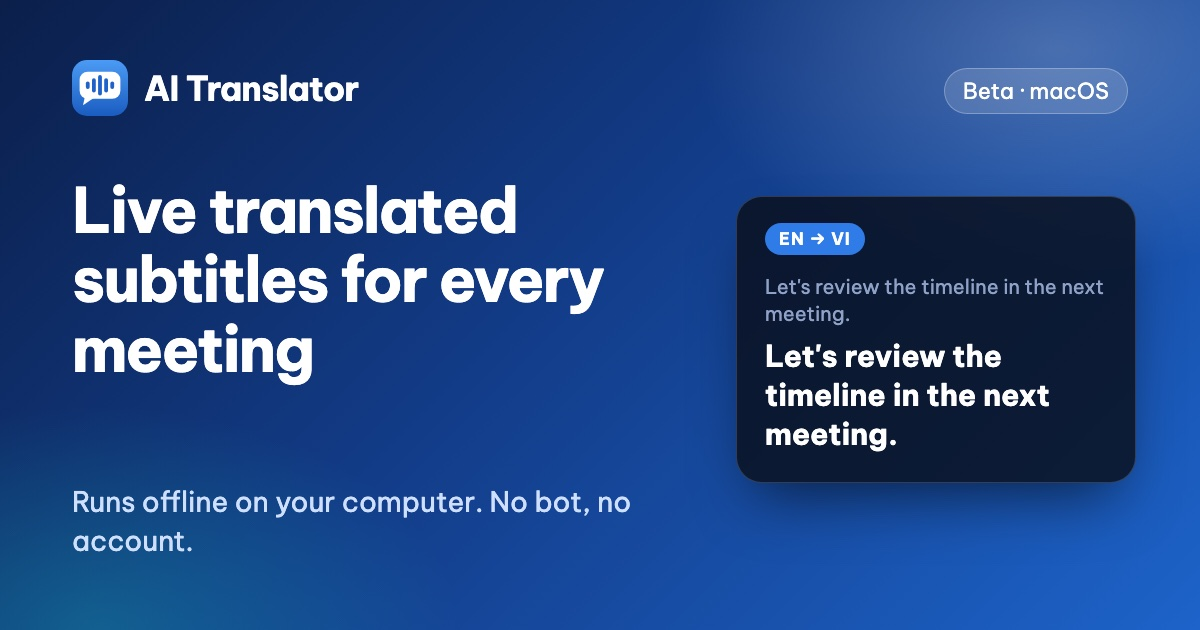
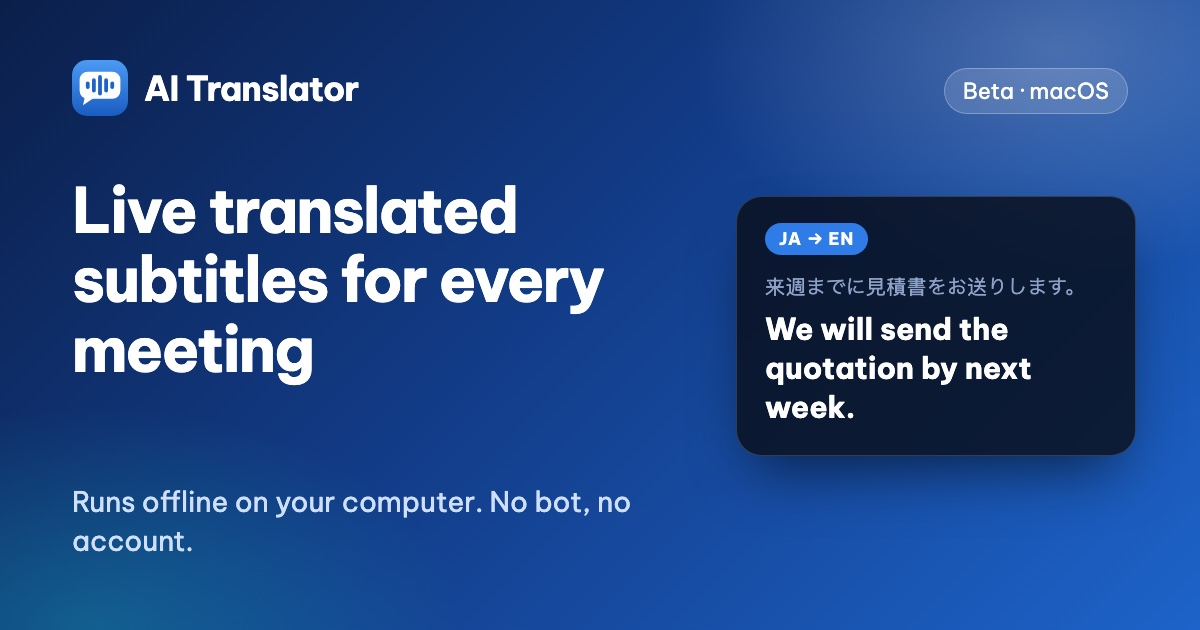
feat(website): trang pháp lý từ docs/legal, ảnh chia sẻ theo nhóm trang, README, bỏ tràn ngang bài dài

Changed region(s): [[0.6167, 0.4222, 0.9558, 0.8143], [0.6475, 0.3619, 0.74, 0.3921]]

diff --git a/website/src/assets/site.css b/website/src/assets/site.css
@@ -347,7 +347,8 @@ td .yes { color: var(--ok); font-weight: 700; } td .no { color: var(--ink-3); }
 .prose blockquote { margin: 1.4em 0; padding: .2em 1.2em; border-left: 3px solid var(--brand); color: var(--ink-2); background: var(--surface-2); border-radius: 0 var(--r-sm) var(--r-sm) 0; }
 .prose .table-wrap { margin: 1.4em 0; }
 .legal h2 { font-size: 1.4rem; }
-.doc-layout { display: grid; gap: 40px; align-items: start; }
+.doc-layout { display: grid; gap: 40px; align-items: start; grid-template-columns: minmax(0, 1fr); }
+.doc-layout > * { min-width: 0; }
 @media (min-width: 1060px) { .doc-layout { grid-template-columns: 250px minmax(0, 1fr); } .doc-layout.no-toc { grid-template-columns: minmax(0, 1fr); } }
 .toc { position: sticky; top: calc(var(--header-h) + 24px); font-size: .93rem; border-left: 2px solid var(--line); padding-left: 16px; max-height: calc(100vh - var(--header-h) - 48px); overflow: auto; }
 .toc b { display: block; color: var(--ink); margin-bottom: 8px; font-size: .78rem; text-transform: uppercase; letter-spacing: .08em; }

diff --git a/website/tools/og/template.html b/website/tools/og/template.html
@@ -30,7 +30,7 @@ p{position:absolute;left:72px;bottom:70px;width:600px;font-size:28px;line-height
 <script>
 const q = new URLSearchParams(location.search);
 const set = (id, k, d = "") => (document.getElementById(id).textContent = q.get(k) ?? d);
-set("title","t"); set("sub","s"); set("tag","tag"); set("src","src","Let's review the timeline in the next meeting."); set("dst","dst","Hãy xem lại tiến độ trong cuộc họp tiếp theo.");
+set("langs","langs","EN → VI"); set("title","t"); set("sub","s"); set("tag","tag"); set("src","src","Let's review the timeline in the next meeting."); set("dst","dst","Hãy xem lại tiến độ trong cuộc họp tiếp theo.");
 document.documentElement.lang = q.get("lang") ?? "vi";
 </script>
 </body></html>

diff --git a/website/README.md b/website/README.md
@@ -1,0 +1,43 @@
+# Website marketing `aitranslator.io.vn`
+
+Website tĩnh hai ngôn ngữ (tiếng Việt ở `/`, tiếng Anh ở `/en/`) cho AI Translator. Thiết kế: `docs/superpowers/specs/2026-10-08-marketing-website-design.md`. Không framework, không dependency chạy: bộ sinh Node thuần; chỉ `wrangler` (devDependency) để deploy.
+
+## Lệnh (trong `website/`)
+
+| Lệnh | Làm gì |
+|---|---|
+| `pnpm build` | Sinh `dist/` (HTML, CSS/JS băm nội dung, sitemap, robots, llms.txt, `_headers`) |
+| `pnpm dev` | Dựng rồi phục vụ `dist/` ở http://127.0.0.1:4173 (mô phỏng Workers Static Assets, áp `_headers` kể cả CSP) |
+| `pnpm test` | Test SEO/HTML/liên kết/JSON-LD/CSP và **giá khớp `server/wrangler.jsonc`** |
+| `pnpm deploy` | Build, deploy Worker `ai-translator-site` (gốc) và `ai-translator-www` (www → gốc) |
+
+Biến môi trường: `WEBSITE_DIST` (thư mục dựng khác `dist/`, để dựng song song), `ALLOW_PARTIAL=1` (cho phép thiếu trang khi đang viết dở).
+
+## Cấu trúc
+
+```
+src/site.mjs            thông tin site, chuỗi giao diện, điều hướng, chân trang (vi/en)
+src/plans.mjs           ba gói, giá, hạn mức (test đối chiếu server/wrangler.jsonc)
+src/content/index.mjs   danh mục trang (id → vi/<id>.mjs, en/<id>.mjs)
+src/content/{vi,en}/    mỗi trang một module: { id, lang, path, title, description, body, ... }
+src/content/legal.mjs   trang điều khoản/chính sách sinh từ docs/legal/*.md (nguồn duy nhất)
+src/build/              bộ sinh: build, layout (head SEO), schema (JSON-LD), components, icons, markdown, text
+src/assets/             site.css, site.js, font Be Vietnam Pro (OFL), ảnh (img/, og/, app/)
+src/public/             favicon, manifest (chép nguyên vào gốc dist/)
+tools/og/               sinh ảnh chia sẻ 1200×630 từ template.html (cần Google Chrome)
+```
+
+## Thêm một trang
+1. Tạo `src/content/vi/<id>.mjs` và `src/content/en/<id>.mjs` (xem `vi/pricing.mjs` làm mẫu), cùng `id`, đường dẫn kết thúc bằng `/`.
+2. Thêm `<id>` vào `IDS` và `FILE` trong `src/content/index.mjs`; thêm liên kết ở `src/site.mjs` (NAV/FOOTER) nếu cần.
+3. `pnpm test`: title ≤ 70 ký tự, description 90–165 ký tự, đúng một h1, hreflang đối xứng, liên kết nội bộ không hỏng, không `style=` nội tuyến.
+
+## Quy tắc
+- **Chỉ nói điều có thật** về sản phẩm (không số liệu, lời chứng thực hay tính năng tưởng tượng). Số đo hiệu năng luôn kèm điều kiện đo. Trạng thái (beta, Windows chưa phát hành, macOS ký ad-hoc) phải đúng với repo.
+- Đổi giá ở `server/wrangler.jsonc` thì đổi cả `src/plans.mjs` và mọi chỗ nhắc giá trong `src/content/` (test báo lệch giá/hạn mức).
+- Không cookie, không analytics, không script hay font của bên thứ ba (khớp lời hứa quyền riêng tư; CSP `default-src 'self'`).
+- Ảnh chụp giao diện app (`src/assets/img/app/`) chụp bằng giao diện thật chạy trong Chrome với IPC giả; chụp lại khi giao diện app đổi.
+
+## Triển khai
+`pnpm deploy` bằng phiên đăng nhập wrangler của chủ dự án (`wrangler login`; cần quyền workers, routes). Tên miền gốc `aitranslator.io.vn` gắn Worker bằng `custom_domain` (tự tạo DNS và chứng chỉ). MX/SPF/DMARC của Email Routing ở gốc không bị đụng. Sau deploy kiểm: gốc 200, `www` → 301, `curl -A GPTBot` không bị chặn (Cloudflare có thể chặn bot AI mặc định ở cấp zone: tắt trong dashboard nếu cần), `api.` và `releases.` không đổi.
+Đường lui: `wrangler delete` Worker `ai-translator-site` (và `ai-translator-www`): gốc trở lại không có trang, mọi thứ khác không đổi.

diff --git a/CLAUDE.md b/CLAUDE.md
@@ -5,6 +5,7 @@ App desktop (Windows và macOS) hiện phụ đề dịch trực tiếp cho âm 
 - **Tên:** AI Translator (`productName` trong `src-tauri/tauri.conf.json`). Thư mục và repo GitHub đặt là `ai-translator`. Tên crate và binary vẫn là `meeting-translator` (tên mã cũ, chưa đổi).
 - **Thiết kế:** `docs/superpowers/specs/2026-09-29-desktop-meeting-translator-design.md`. Đọc file này trước khi làm bất kỳ việc gì.
 - **Mốc benchmark chọn model:** `bench/2026-09-29-mt-benchmark/`.
+- **Website marketing:** `website/` (tên miền `aitranslator.io.vn`, tĩnh, hai ngôn ngữ, Worker Static Assets). Thiết kế: `docs/superpowers/specs/2026-10-08-marketing-website-design.md`; cách dựng và thêm trang: `website/README.md`. Nội dung về sản phẩm chỉ được nói điều có thật (số đo kèm điều kiện đo); đổi giá ở `server/wrangler.jsonc` thì đổi cả `website/src/plans.mjs` và các trang nhắc giá.
 - **Môi trường:** chỉ có production; bản dev (debug) cũng nối production. Công tắc Pro của dev (`AI_TRANSLATOR_DEV_PRO=true` trong `.env`, chỉ bản debug) và các lớp chống lọt vào bản phát hành: `docs/superpowers/specs/2026-10-04-single-production-environment-design.md`. Không thêm lại staging hay biến ghi đè URL.
 
 ## Quy tắc bắt buộc
